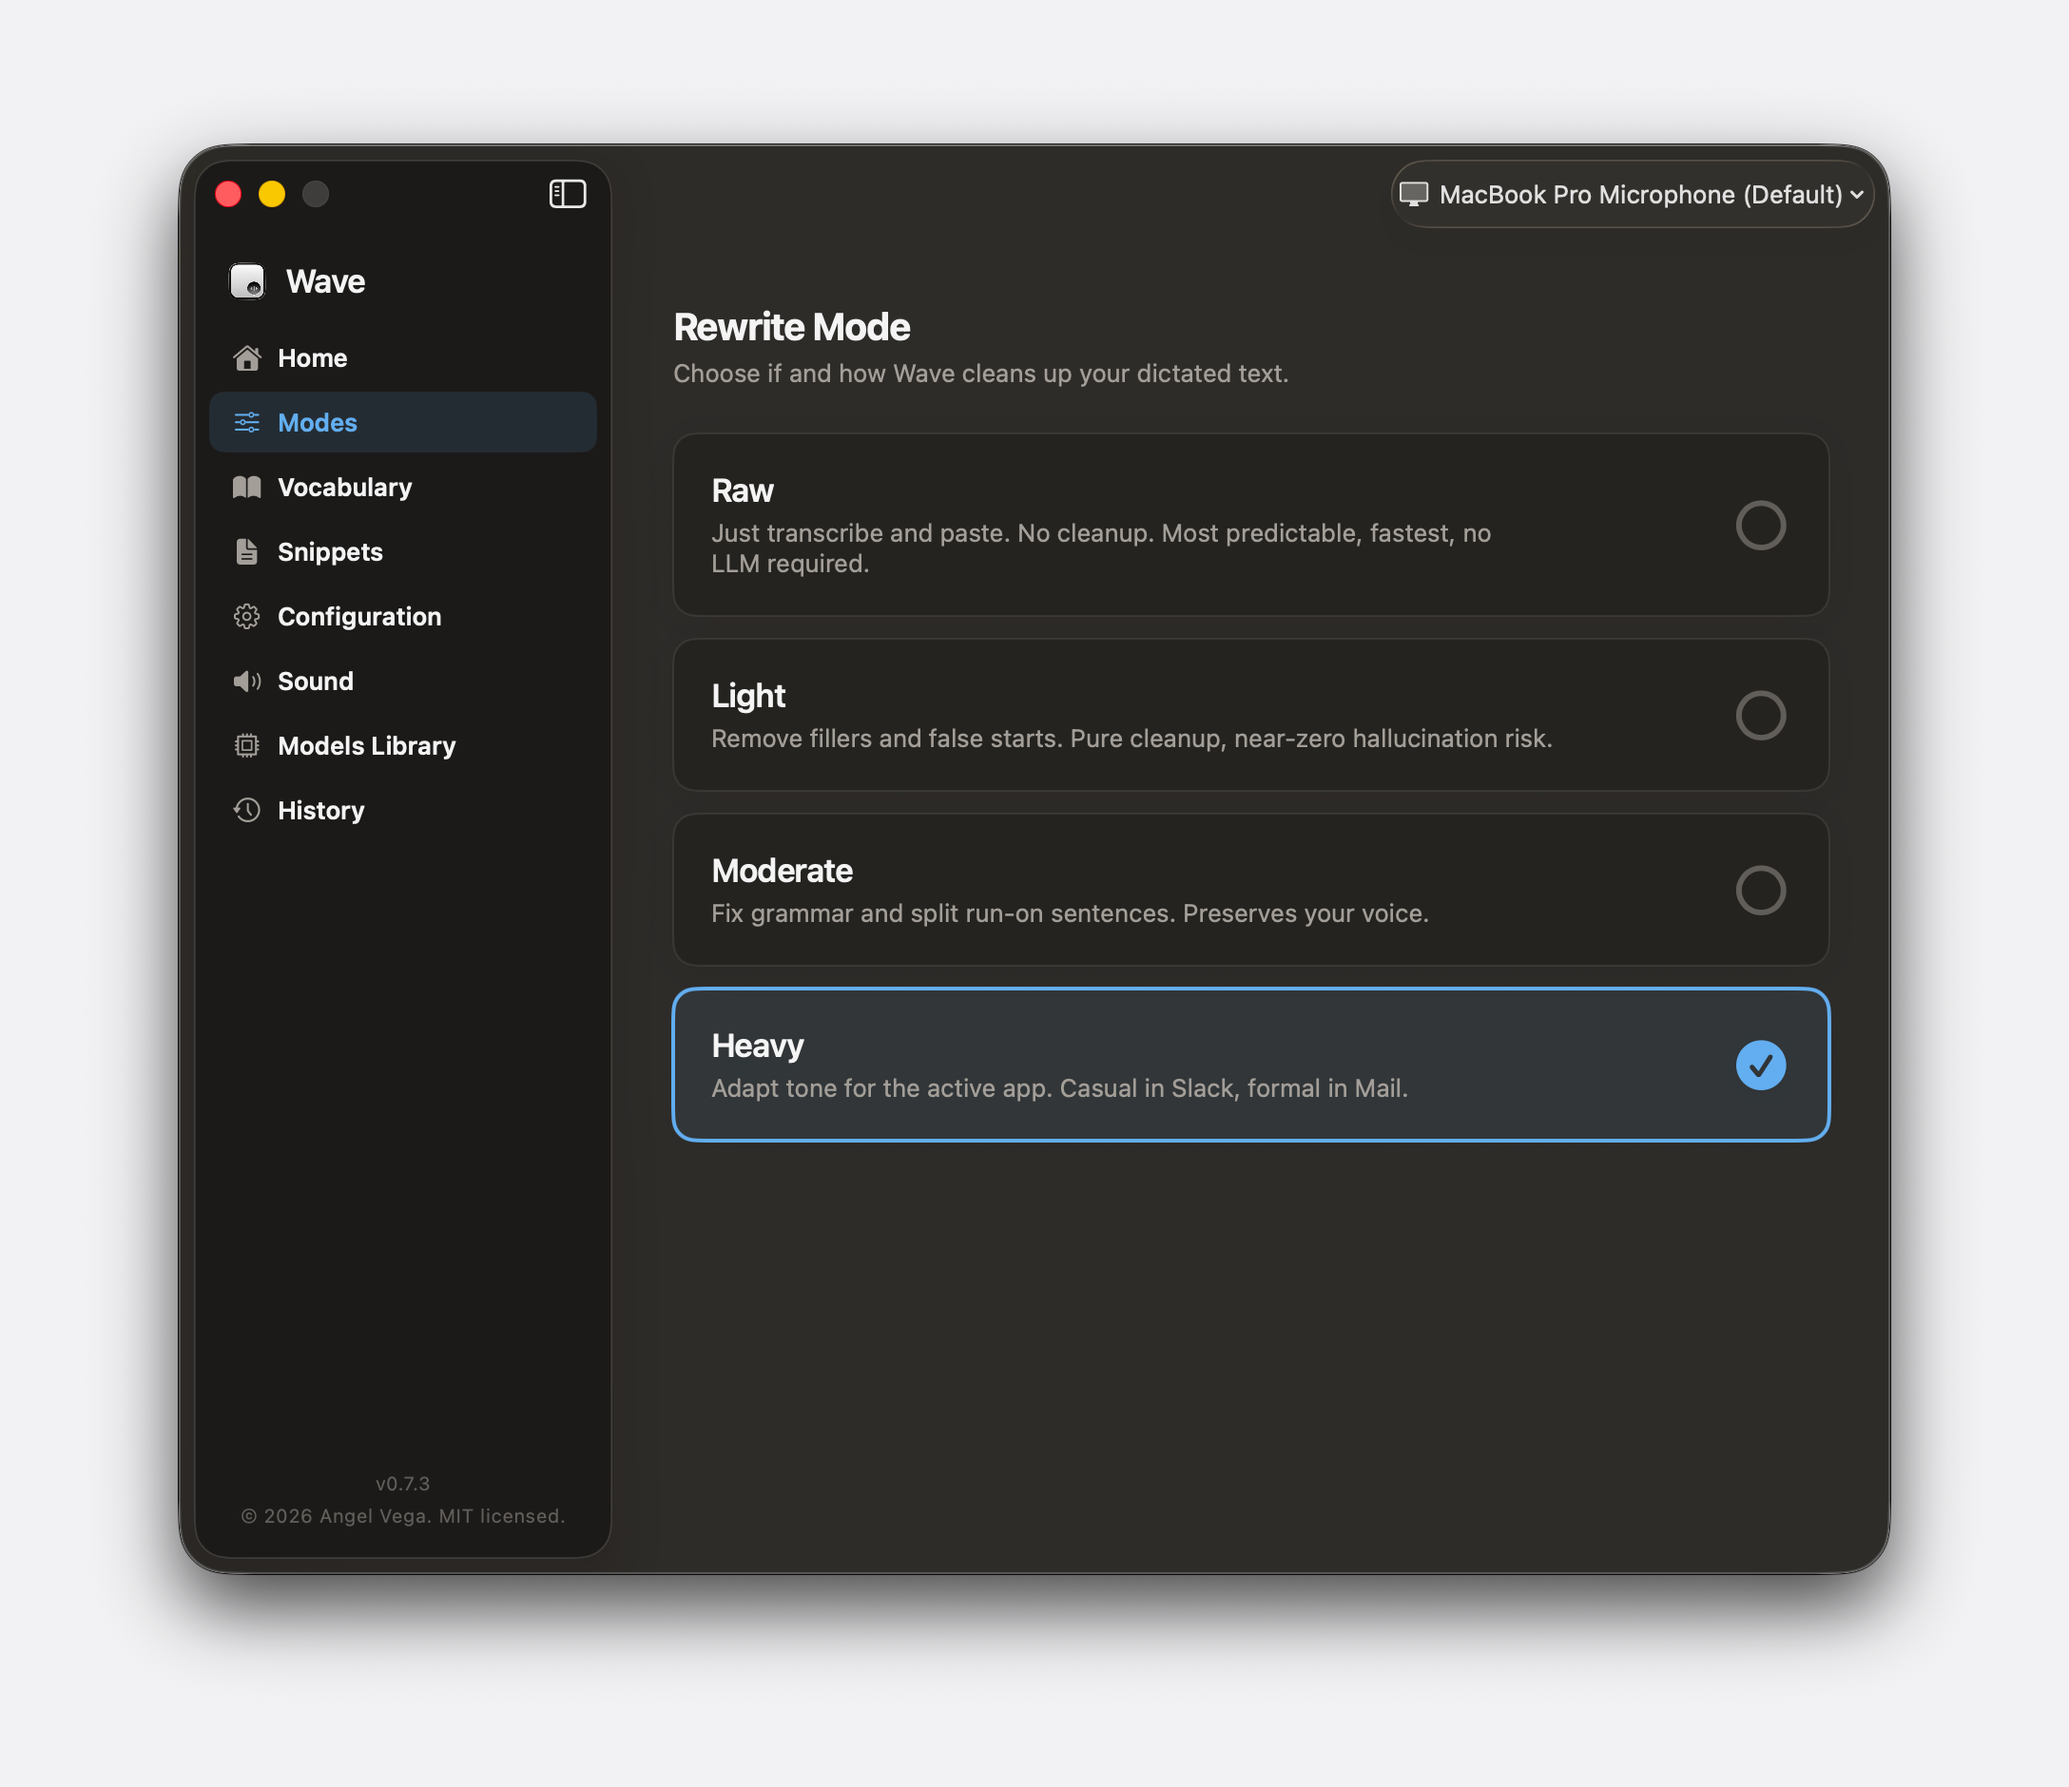
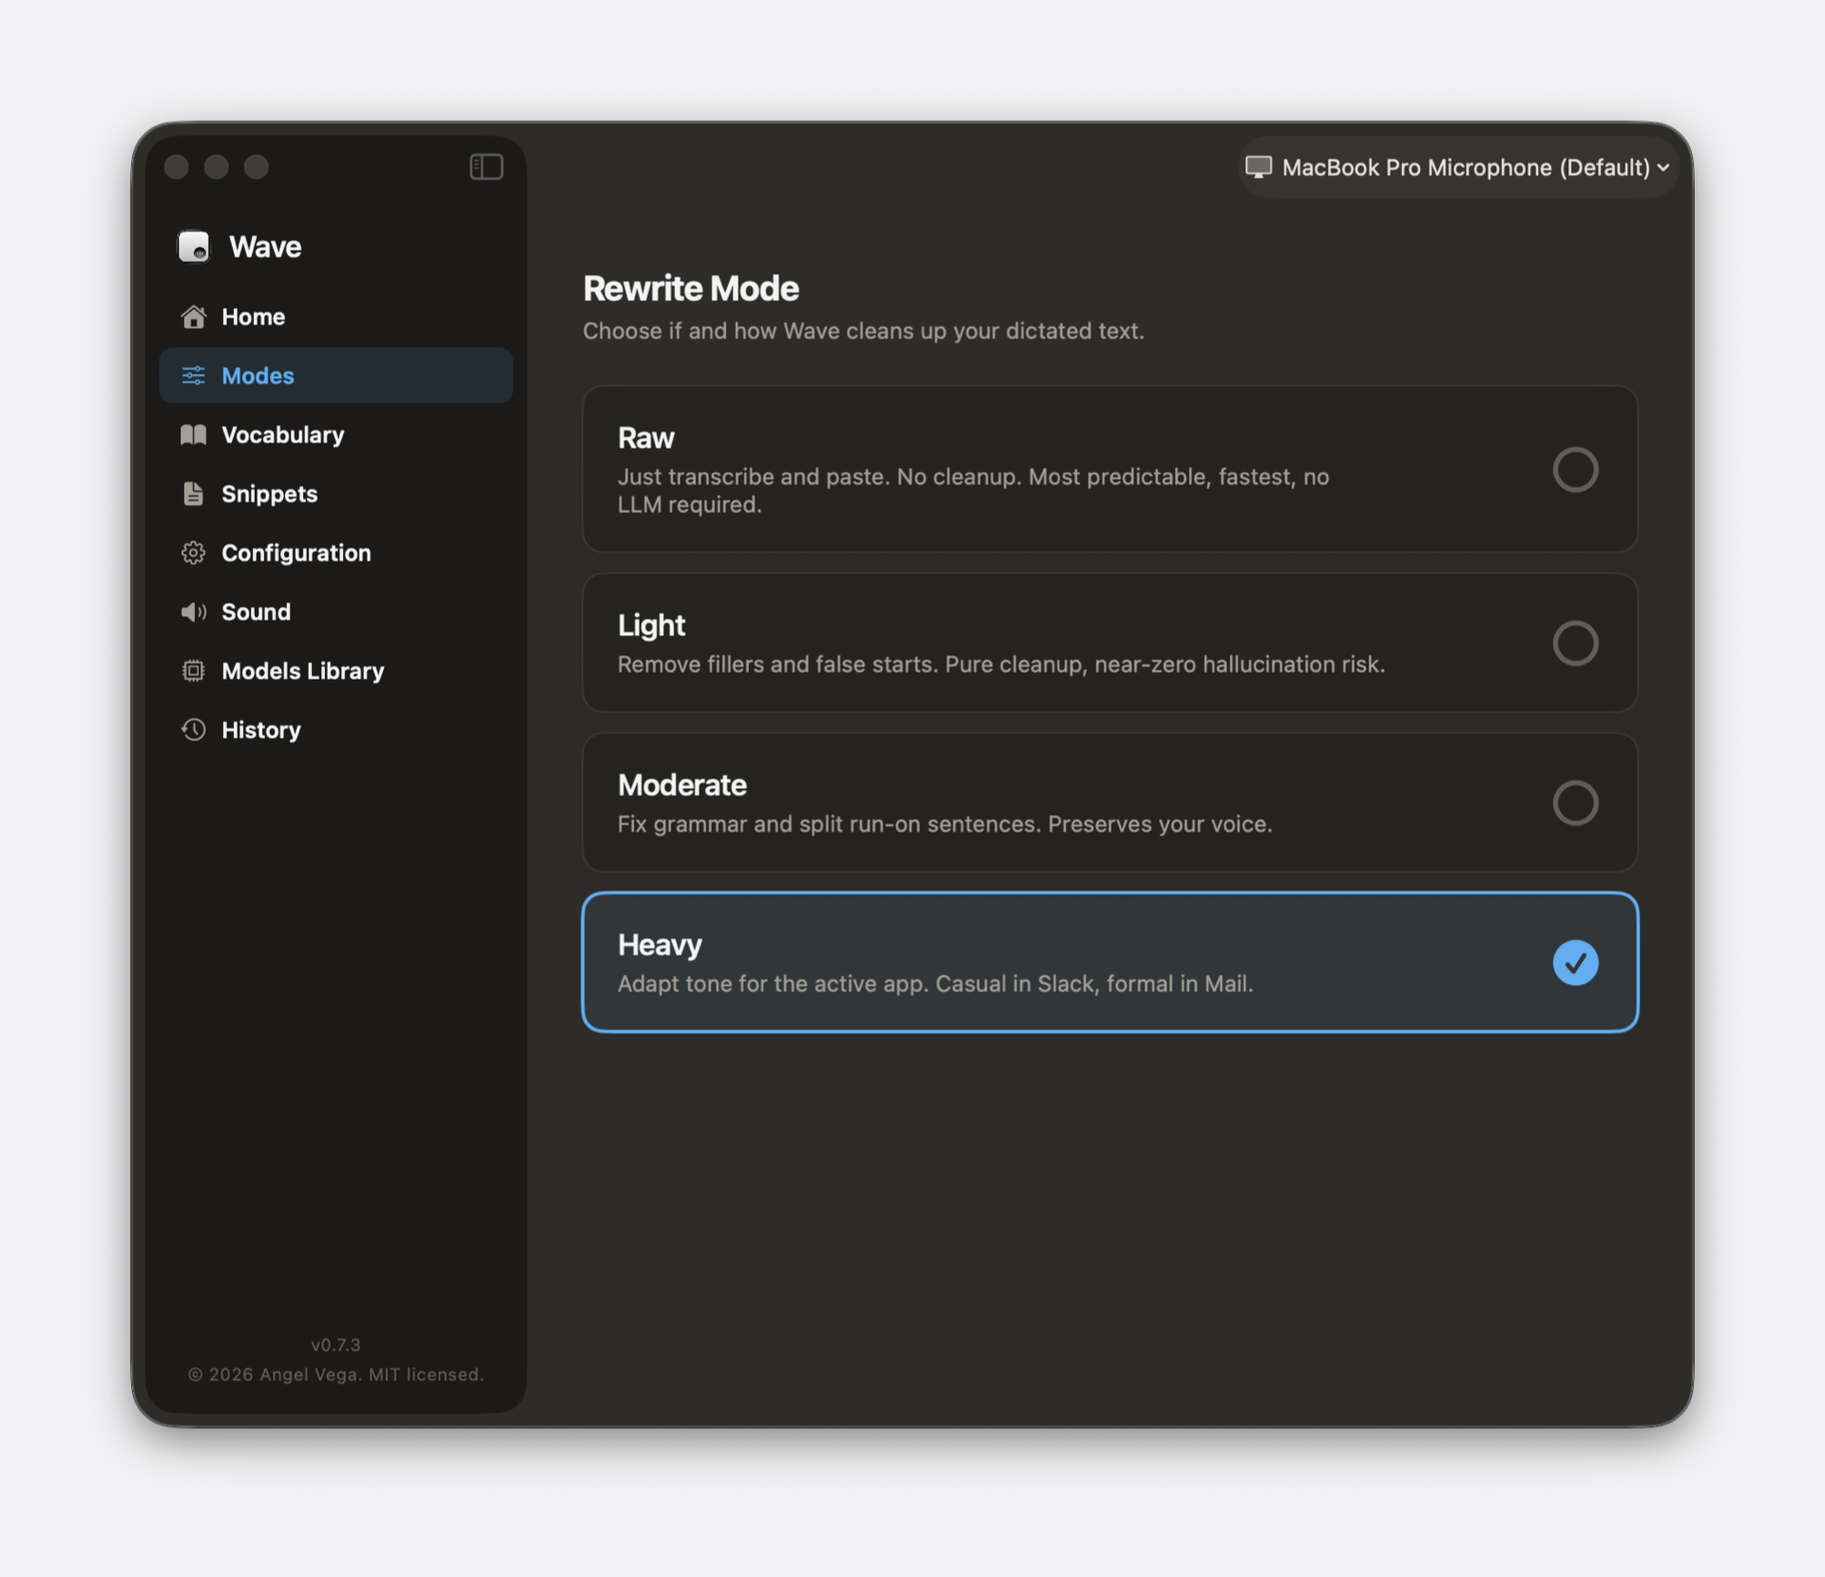
Give focus back, and stop shipping figures at twice the size they render
Running the screenshot pipeline pulled the window out from under whoever
started it and left them in Wave. Activating is unavoidable: screencapture
sizes its output from the window list, and those bounds are a stale stub
until something makes the window server redraw the window. So the app that
was frontmost is remembered and reactivated instead.

Not a `defer`. The success path calls exit(0), which does not unwind, so a
deferred restore would never run on the only path that matters.

The three figures were 2176 wide for a slot the README draws at 960. 1920
is exactly the two-to-one a retina display asks for, and the rest was about
200KB per figure of detail nobody can see. The page drops from 3.0MB to
2.7MB.

diff --git a/Scripts/window-shot.swift b/Scripts/window-shot.swift
@@ -73,6 +73,15 @@ func windowNumber(matching wanted: CGRect) -> Int? {
 let scale = NSScreen.main?.backingScaleFactor ?? 2
 
 for attempt in 1...3 {
+    // Whatever the person running this was doing, they get it back. Activating
+    // is unavoidable (see below), so the app that was frontmost is remembered
+    // here and reactivated at the end rather than leaving the run in Wave.
+    let previous = NSWorkspace.shared.frontmostApplication
+
+    // `screencapture -l` sizes its output from the window list, and those
+    // bounds are a stale stub until something makes the window server redraw
+    // the window. Activating is what does that. It is the one unavoidable
+    // moment of focus theft in the run.
     app.activate(options: [.activateAllWindows])
     // Park the pointer off the window first. SwiftUI paints a hover highlight
     // under wherever the cursor is sitting, and a row lit up for no reason is
@@ -86,6 +95,12 @@ for attempt in 1...3 {
         usleep(50_000)
     }
     usleep(useconds_t(600_000 * attempt))
+    // Not a `defer`: the success path below calls `exit(0)`, which does not
+    // unwind, so a deferred restore would never run on the only path that
+    // matters.
+    func giveFocusBack() {
+        if let previous, previous != app { previous.activate() }
+    }
     guard let wanted = mainFrame() else {
         fail("no main window for \(owner); Accessibility permission may be missing for this terminal")
     }
@@ -104,12 +119,14 @@ for attempt in 1...3 {
        CGFloat(rep.pixelsWide) <= wanted.width * scale + slack,
        CGFloat(rep.pixelsHigh) >= wanted.height * scale - 4,
        CGFloat(rep.pixelsHigh) <= wanted.height * scale + slack {
+        giveFocusBack()
         print(out)
         exit(0)
     }
     // The stale bounds case: the right window squeezed into the wrong size.
     // Deleted rather than left for someone to read as evidence.
     try? FileManager.default.removeItem(atPath: out)
+    giveFocusBack()
 }
 
 fail("could not capture a file matching the \(owner) window; nothing written")

diff --git a/Tools/Screenshots/ArticleImages.swift b/Tools/Screenshots/ArticleImages.swift
@@ -246,17 +246,25 @@ do {
 // run and 2110 on the next. Fixing the canvas and centring inside it makes the
 // output the same every time, and a shadow that is 33px wider just sits 33px
 // further into the margin.
-let figureCanvas = CGSize(width: 2176, height: 1880)
+// 1920 rather than the capture's own 2176. The README draws these at 960, so
+// 1920 is exactly the two-to-one a retina display asks for and the rest was
+// 200KB per figure that nobody can see.
+let figureCanvas = CGSize(width: 1920, height: 1659)
+let figureMargin: CGFloat = 106
 for name in ["modes", "vocabulary", "history"] {
     let capture = raw(name)
     let image = ground(Int(figureCanvas.width), Int(figureCanvas.height))
     withCanvas(image) {
+        let box = CGRect(x: figureMargin, y: figureMargin,
+                         width: figureCanvas.width - figureMargin * 2,
+                         height: figureCanvas.height - figureMargin * 2)
+        let scale = min(box.width / capture.content.width, box.height / capture.content.height)
+        let width = capture.content.width * scale
+        let height = capture.content.height * scale
         place(capture,
-              content: CGRect(x: (figureCanvas.width - capture.content.width) / 2,
-                              y: (figureCanvas.height - capture.content.height) / 2,
-                              width: capture.content.width,
-                              height: capture.content.height),
-              canvasHeight: figureCanvas.height, interpolation: .none)
+              content: CGRect(x: box.midX - width / 2, y: box.midY - height / 2,
+                              width: width, height: height),
+              canvasHeight: figureCanvas.height)
     }
     write(image, to: outDirectory.appendingPathComponent(name + ".png"))
 }
